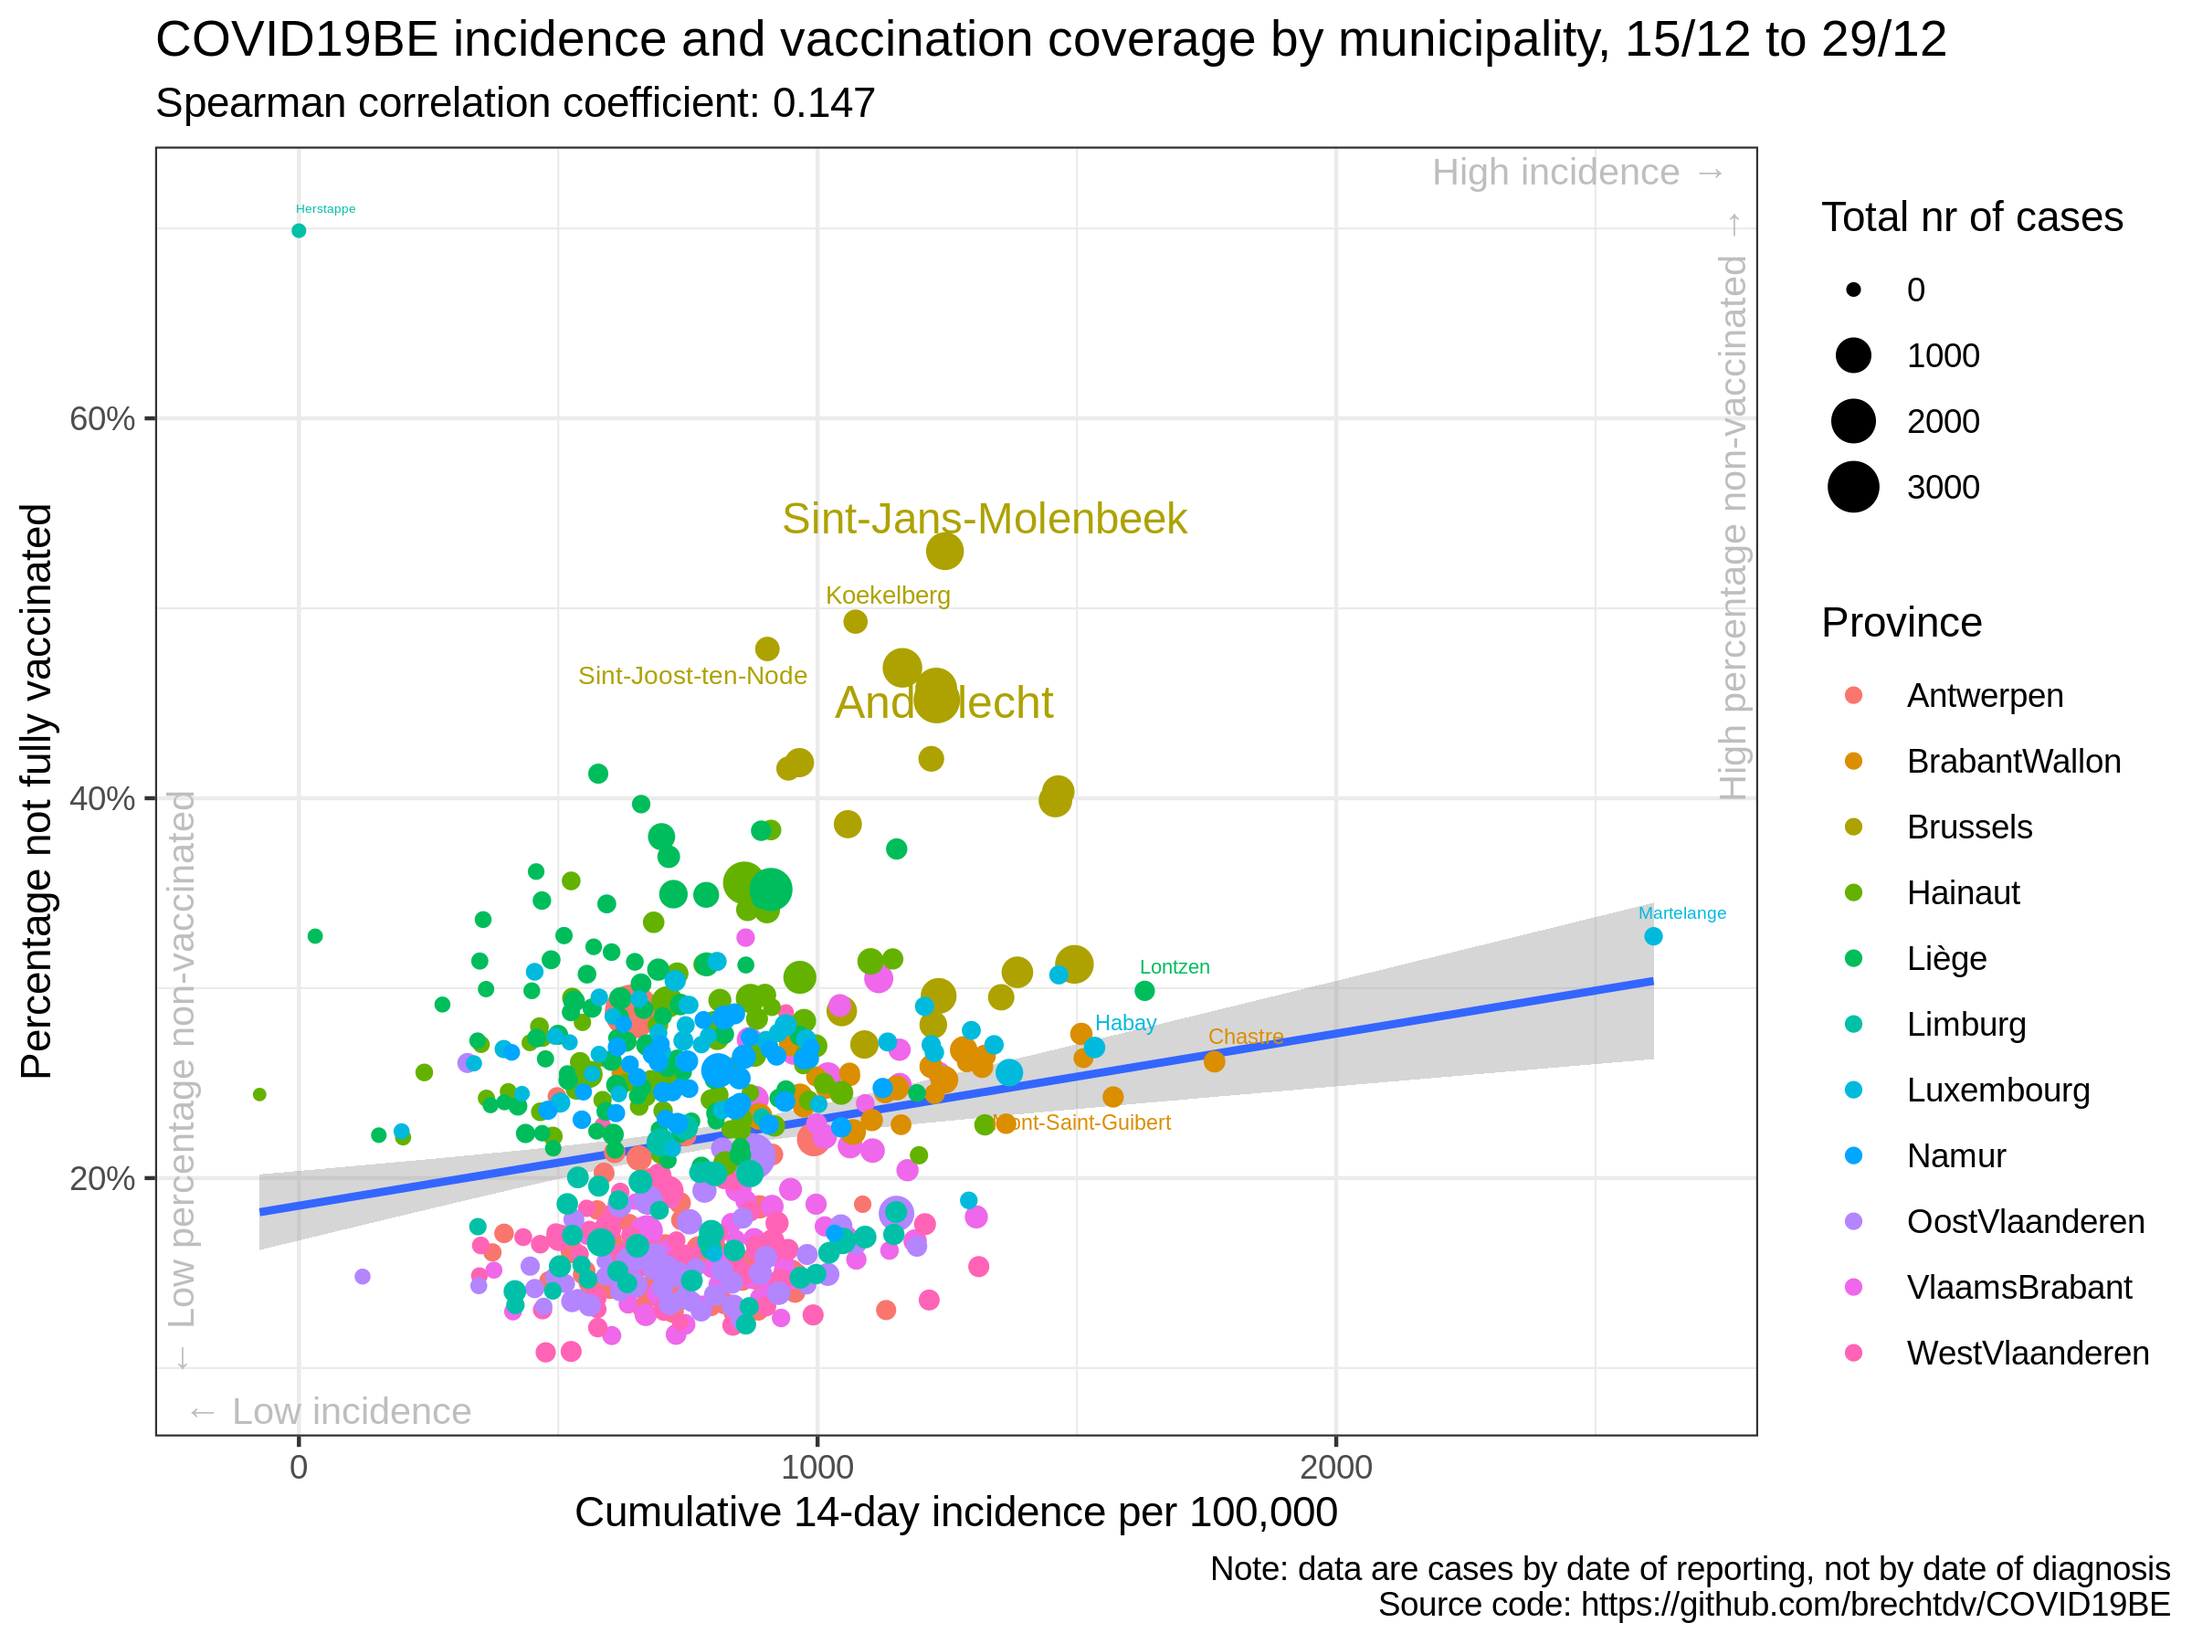
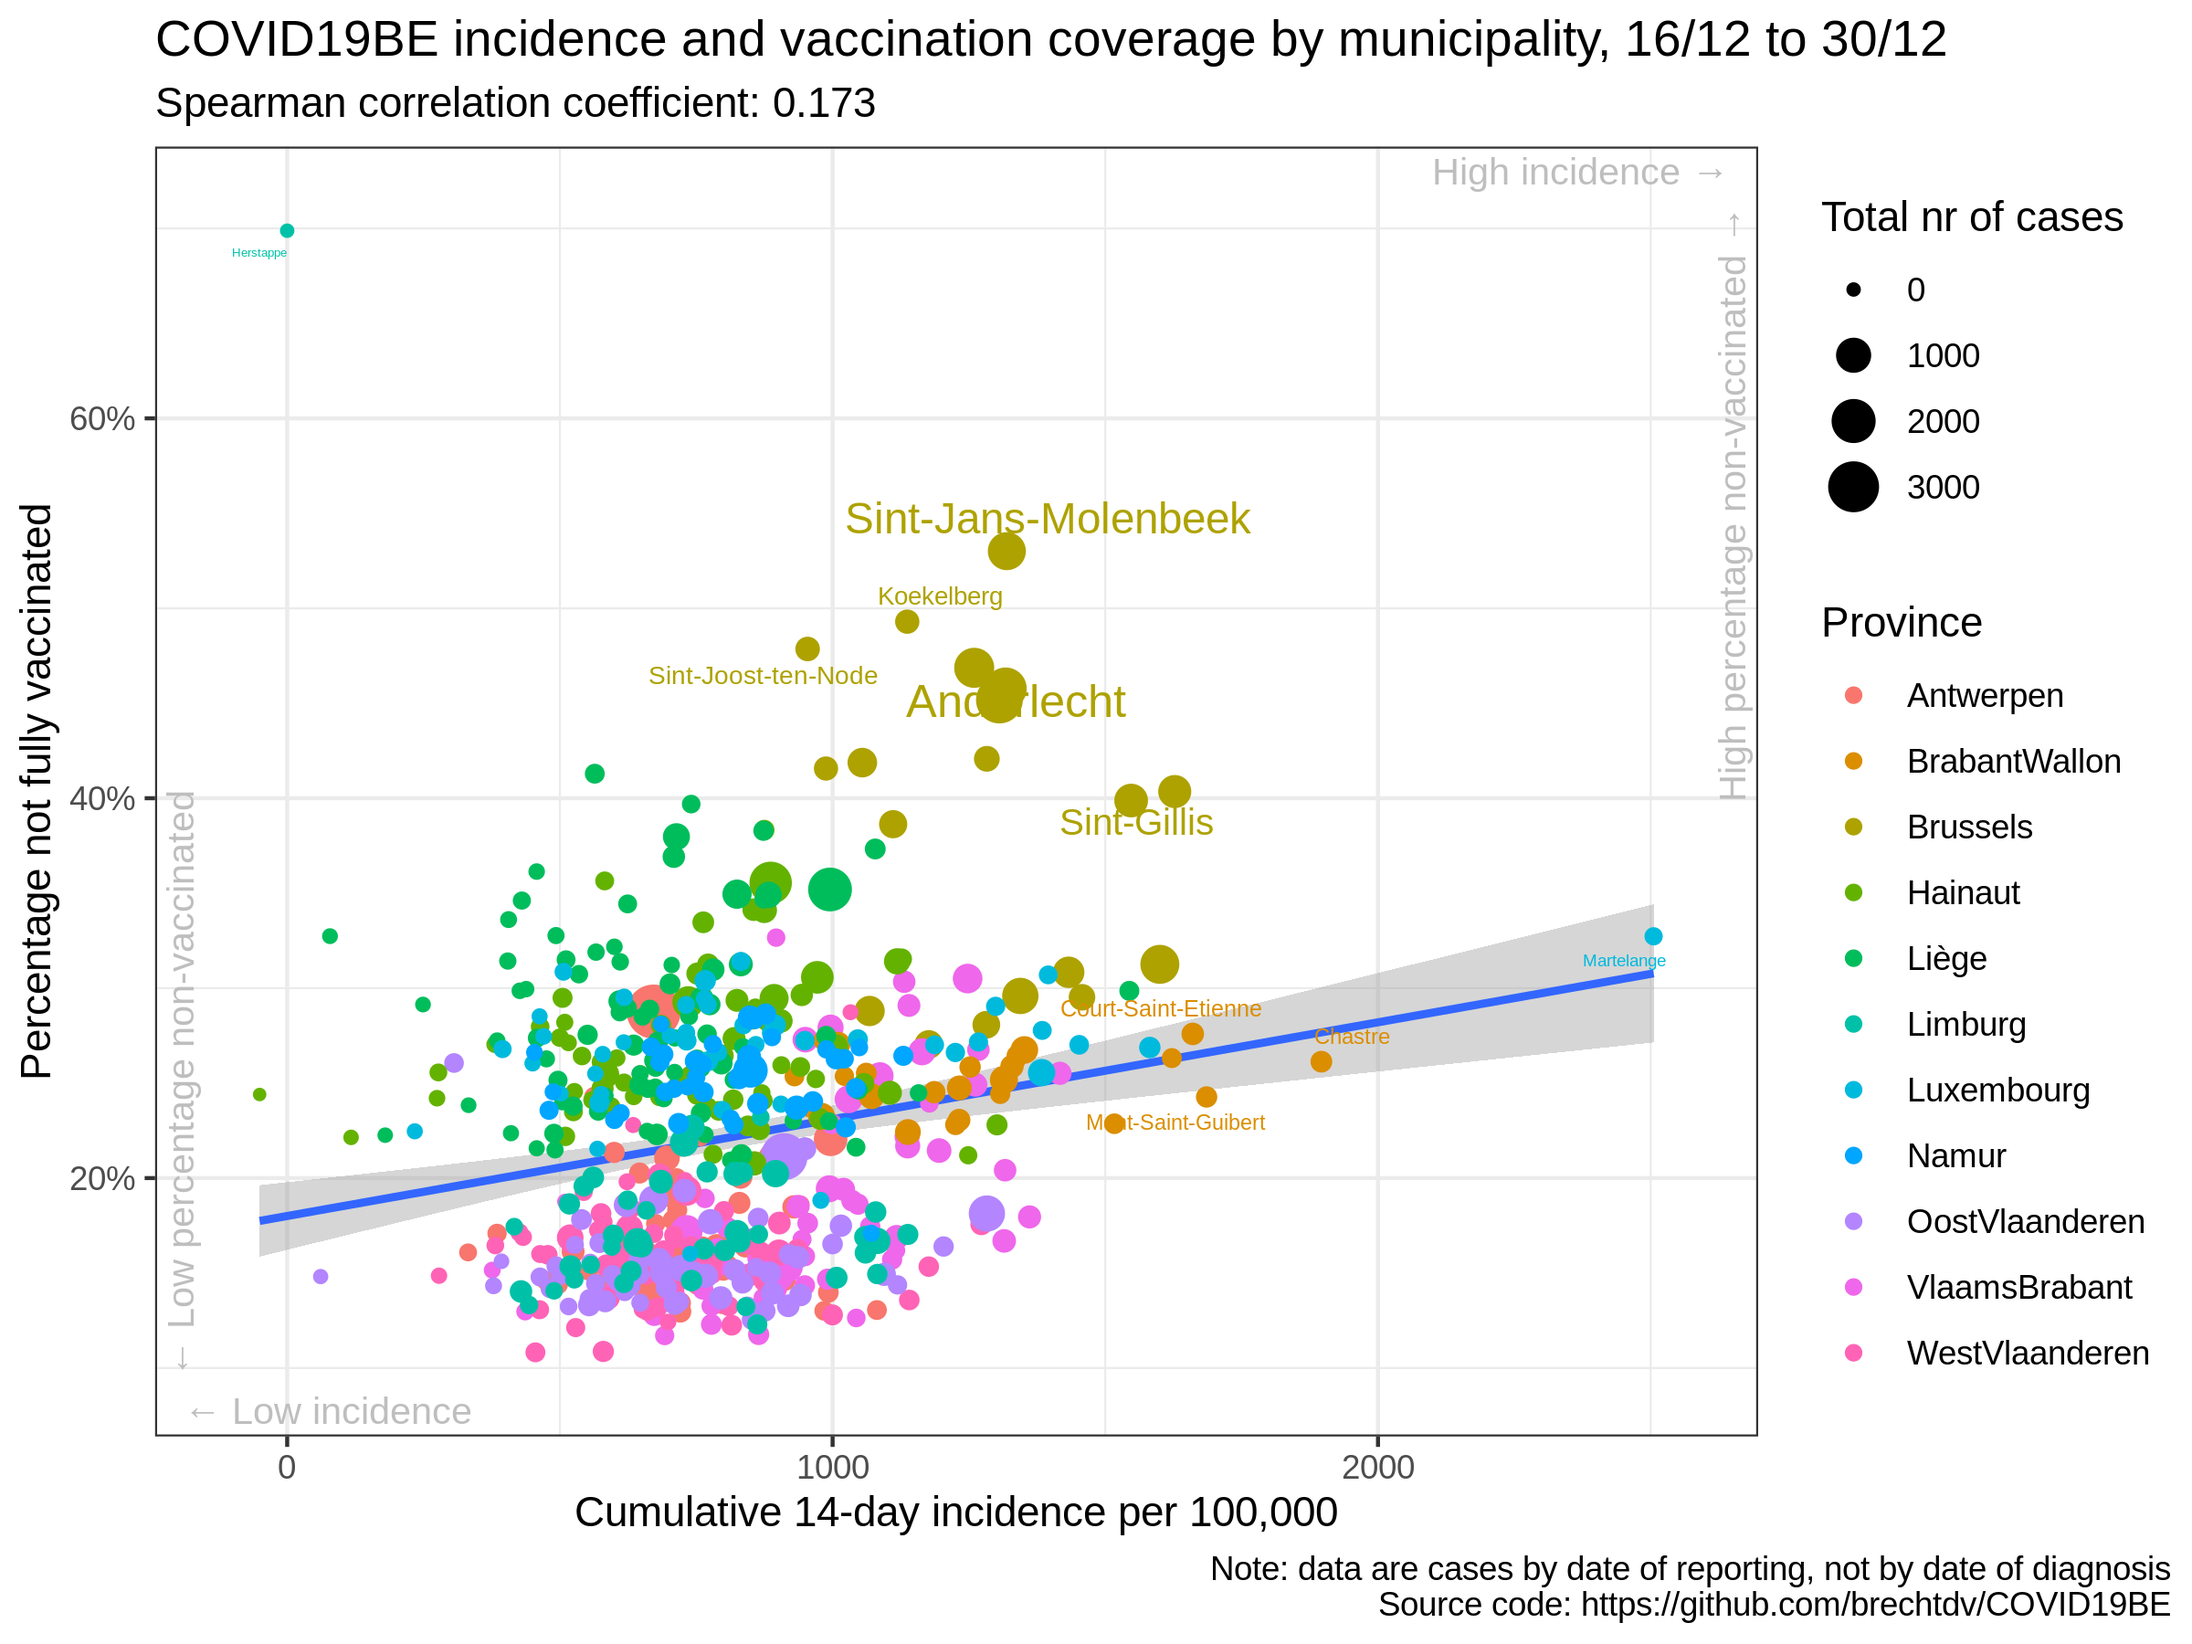
update situation

diff --git a/vaccination/README.md b/vaccination/README.md
@@ -13,18 +13,18 @@
 
 |                | estimate.rho | p.value |
 | :------------- | -----------: | ------: |
-| Antwerpen      |      \-0.137 |   0.262 |
-| BrabantWallon  |        0.214 |   0.283 |
-| Brussels       |      \-0.188 |   0.440 |
-| Hainaut        |        0.163 |   0.180 |
-| Liège          |      \-0.032 |   0.769 |
-| Limburg        |        0.056 |   0.724 |
-| Luxembourg     |        0.145 |   0.348 |
-| Namur          |      \-0.019 |   0.908 |
-| OostVlaanderen |        0.133 |   0.311 |
-| VlaamsBrabant  |        0.588 |   0.000 |
-| WestVlaanderen |        0.021 |   0.870 |
-| Belgium        |        0.147 |   0.000 |
+| Antwerpen      |      \-0.048 |   0.697 |
+| BrabantWallon  |        0.232 |   0.243 |
+| Brussels       |      \-0.189 |   0.436 |
+| Hainaut        |        0.160 |   0.189 |
+| Liège          |      \-0.028 |   0.801 |
+| Limburg        |        0.084 |   0.594 |
+| Luxembourg     |        0.208 |   0.175 |
+| Namur          |        0.085 |   0.610 |
+| OostVlaanderen |        0.114 |   0.383 |
+| VlaamsBrabant  |        0.651 |   0.000 |
+| WestVlaanderen |      \-0.009 |   0.942 |
+| Belgium        |        0.173 |   0.000 |
 
 ### Data source
 
